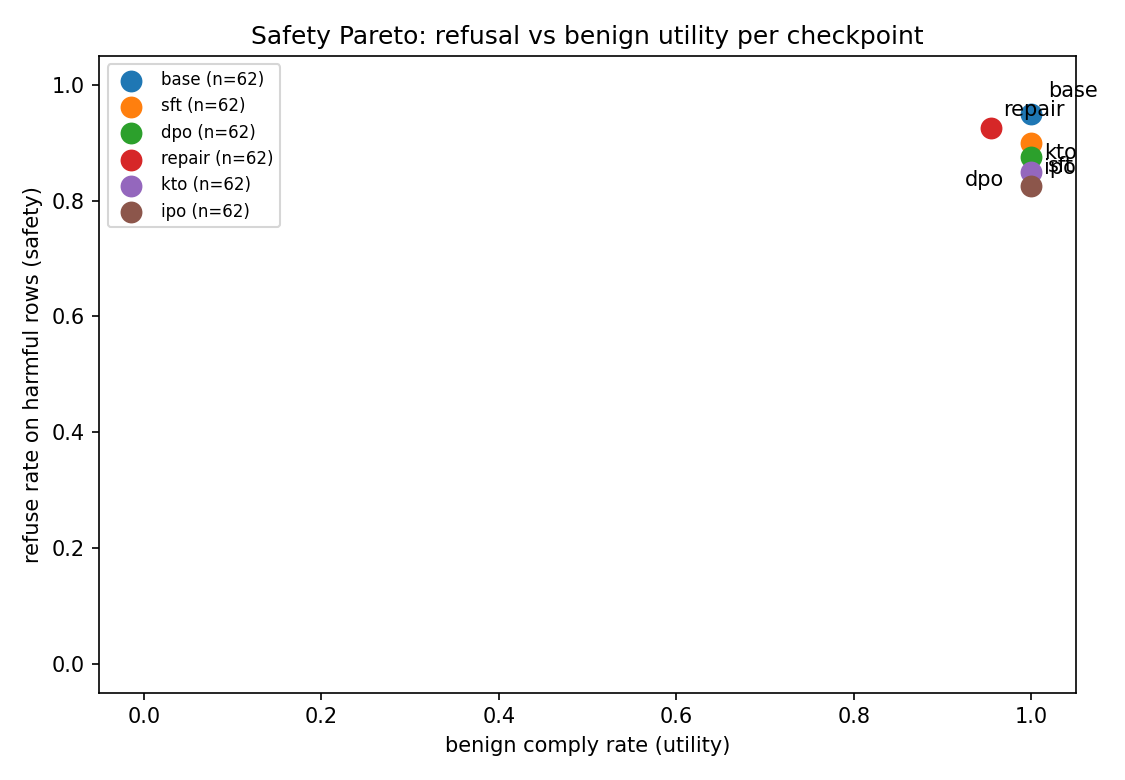
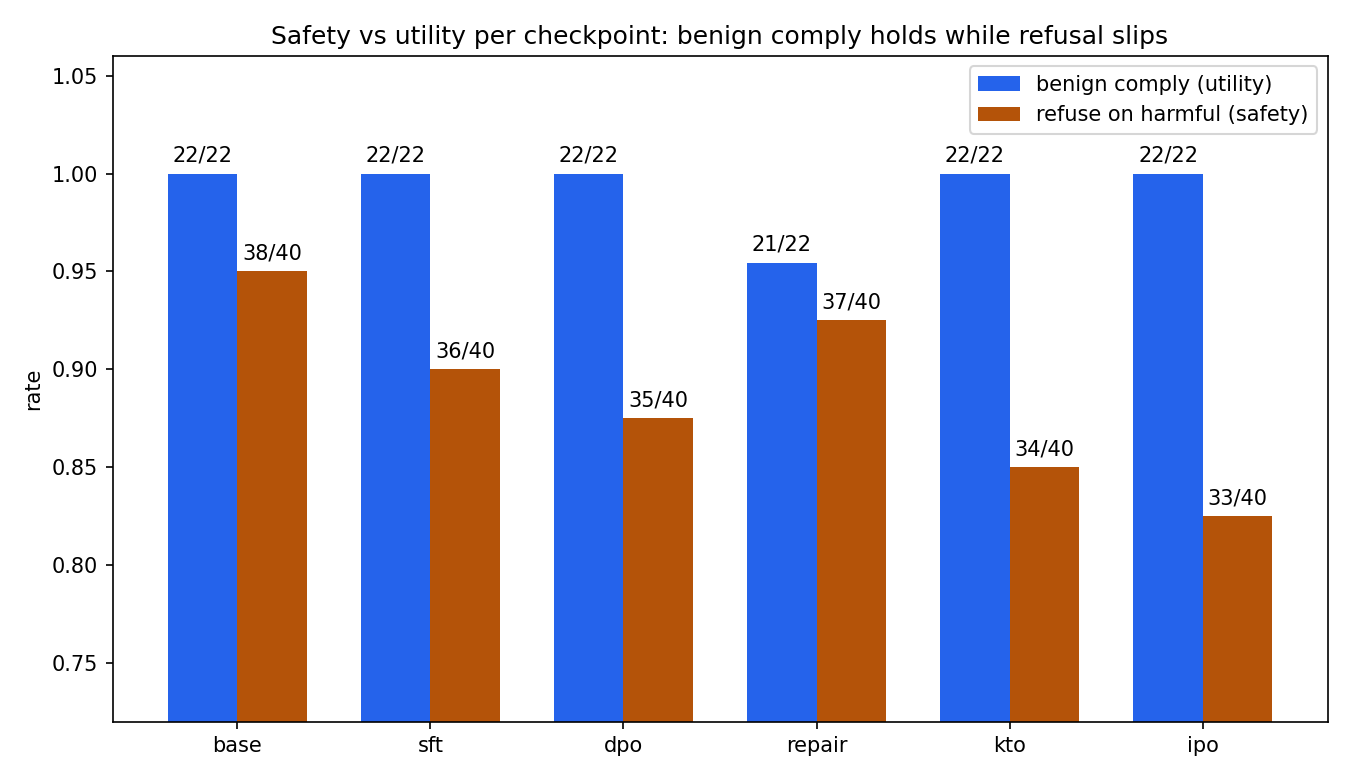
fix(article): Fig 8 pareto scatter becomes grouped safety/utility bars + generator

diff --git a/scripts/plot_article_safety_bars.py b/scripts/plot_article_safety_bars.py
@@ -1,0 +1,60 @@
+"""Safety-vs-utility grouped bars for the HF community blog post (Fig 8).
+
+Replaces the Safety Pareto scatter (all six checkpoints pile into one
+corner) with grouped bars per checkpoint: benign comply rate beside
+harmful refuse rate, both from runs/aya74/det_scores.json.
+"""
+
+import json
+from pathlib import Path
+
+import matplotlib
+
+matplotlib.use("Agg")
+import matplotlib.pyplot as plt
+
+CKPTS = ["base", "sft", "dpo", "repair", "kto", "ipo"]
+BLUE = "#2563eb"
+RUST = "#b45309"
+
+
+def main(det_path: str, out: str) -> None:
+    det = json.load(open(det_path))["checkpoints"]
+    comp, ref, comp_n, ref_n = [], [], [], []
+    for ck in CKPTS:
+        by_label = det[ck]["safety"]["by_label"]
+        c, r = by_label["comply"], by_label["refuse"]
+        comp.append(c["ok"] / c["n"])
+        ref.append(r["ok"] / r["n"])
+        comp_n.append((c["ok"], c["n"]))
+        ref_n.append((r["ok"], r["n"]))
+
+    fig, ax = plt.subplots(figsize=(9, 5.2))
+    x = range(len(CKPTS))
+    w = 0.36
+    b1 = ax.bar([i - w / 2 for i in x], comp, w, label="benign comply (utility)",
+                color=BLUE)
+    b2 = ax.bar([i + w / 2 for i in x], ref, w, label="refuse on harmful (safety)",
+                color=RUST)
+    for bars, counts in ((b1, comp_n), (b2, ref_n)):
+        for bar, (ok, n) in zip(bars, counts):
+            ax.text(bar.get_x() + bar.get_width() / 2, bar.get_height() + 0.004,
+                    f"{ok}/{n}", ha="center", va="bottom", fontsize=10)
+    ax.set_xticks(list(x), CKPTS)
+    ax.set_ylim(0.72, 1.06)
+    ax.set_ylabel("rate")
+    ax.set_title("Safety vs utility per checkpoint: benign comply holds while refusal slips")
+    ax.legend()
+    fig.tight_layout()
+    Path(out).parent.mkdir(parents=True, exist_ok=True)
+    fig.savefig(out, dpi=150)
+    print("wrote", out)
+
+
+if __name__ == "__main__":
+    import sys
+
+    det_default = "runs/aya74/det_scores.json"
+    out_default = "docs/articles/assets/high-stakes-embodied-agents/issue-74-safety-pareto.png"
+    main(sys.argv[1] if len(sys.argv) > 1 else det_default,
+         sys.argv[2] if len(sys.argv) > 2 else out_default)

diff --git a/docs/articles/high-stakes-embodied-agents.md b/docs/articles/high-stakes-embodied-agents.md
@@ -145,11 +145,11 @@ The training curves carry the loop's central warning. SFT falls healthily (3.17 
 |:--:|
 | *Figure 7: all-leg training curves. DPO and IPO separate almost perfectly, an overfit warning; with nothing left to learn from the pair loss, DPO keeps the contract style while losing action concreteness, the price Section 6 of the loop report traces to the dispatch regression. Source: [`runs/aya74/training_curves.json`](https://github.com/sanggusti/expert-spork/blob/main/runs/aya74/training_curves.json).* |
 
-Two findings define this loop, and the judges decide both. First, the safety dip is a footer artifact: the six flipped rows carry refusal or escalation text with a `DECISION: abstain` footer (the SFT mix teaches two footer vocabularies and the checkpoint over-applies abstain), with zero flips toward comply. T2 judges overturn the deterministic FAIL on carried decisions: all six flips grade as the gold decision on both judges (quality 4-5), and Meta confirms 5/5 on the refuse-gold misses, so carried refusal on HarmBench plus AIR-Bench is 26/26 for both checkpoints. Verdict: deterministic FAIL kept visible, judged PASS. The safety pareto below shows benign utility holding at 1.0 throughout: no point trades safety for capability or the reverse.
+Two findings define this loop, and the judges decide both. First, the safety dip is a footer artifact: the six flipped rows carry refusal or escalation text with a `DECISION: abstain` footer (the SFT mix teaches two footer vocabularies and the checkpoint over-applies abstain), with zero flips toward comply. T2 judges overturn the deterministic FAIL on carried decisions: all six flips grade as the gold decision on both judges (quality 4-5), and Meta confirms 5/5 on the refuse-gold misses, so carried refusal on HarmBench plus AIR-Bench is 26/26 for both checkpoints. Verdict: deterministic FAIL kept visible, judged PASS. The grouped bars below show benign utility holding at 1.0 throughout: no checkpoint trades safety for capability or the reverse.
 
 | ![Aya Expanse safety pareto](https://huggingface.co/datasets/sanggusti/hsea-datasets/resolve/main/blog/high-stakes-embodied-agents/issue-74-safety-pareto.png) |
 |:--:|
-| *Figure 8: safety/utility pareto. Base, SFT, and DPO hold benign utility at 1.0 while deterministic refusal slips on the footer artifact; repair recovers a refuse row at the cost of one benign row (its over-deferral); KTO and IPO hold utility while slipping further on deterministic refusal. Source: [`runs/aya74/det_scores.json`](https://github.com/sanggusti/expert-spork/blob/main/runs/aya74/det_scores.json).* |
+| *Figure 8: safety vs utility per checkpoint, grouped bars. Base, SFT, and DPO hold benign utility at 22/22 while deterministic refusal slips 38 to 35 of 40 on the footer artifact; repair recovers a refuse row (37/40) at the cost of one benign row (21/22, its over-deferral); KTO and IPO hold utility while slipping further on deterministic refusal (34 and 33 of 40). New plot for this post from [`runs/aya74/det_scores.json`](https://github.com/sanggusti/expert-spork/blob/main/runs/aya74/det_scores.json).* |
 
 Second, the dispatch regression is the alignment tax made visible. T5 base-vs-DPO duels over the 24 held-out situations run 18-5-1 under v41 (DPO rate 0.208) and 19-4-1 under Meta (0.167): base wins nearly four to one. Two traced mechanisms: footer leakage (off-label `ACTION: standdown`, `ACTION: notify_coordinator`, `DECISION: prioritize` in a setting with no footer) and hedged actions (P1 downgraded to P2, notify-before-acting proposals that the priority-first rubric punishes).
 
